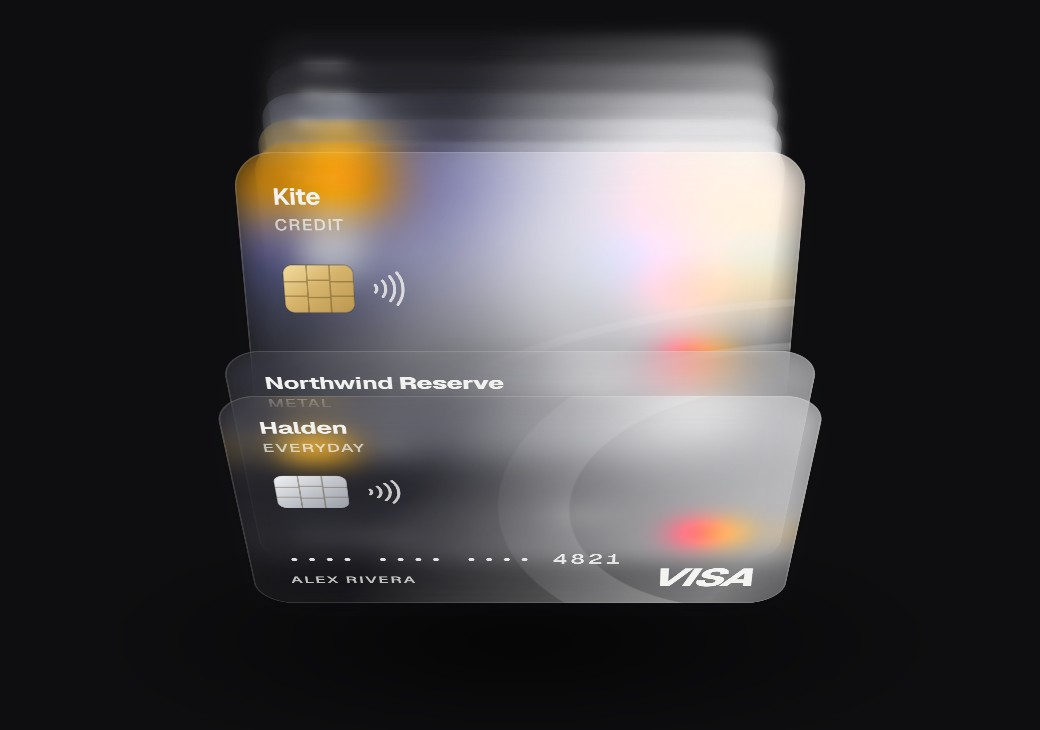
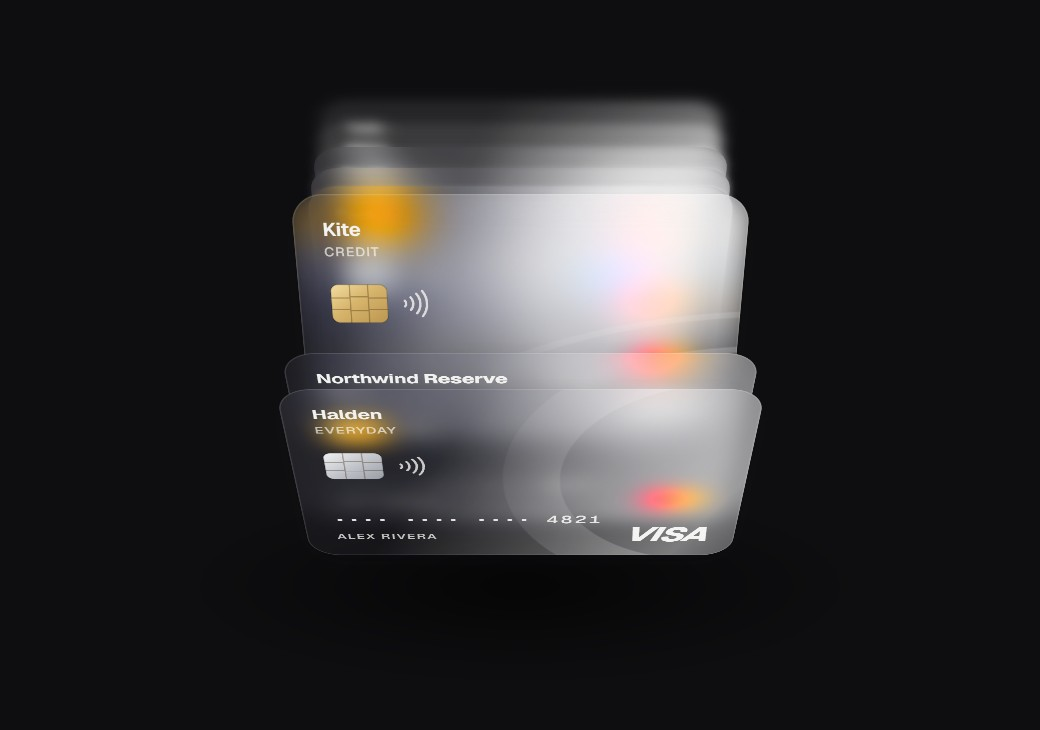
Lab: Card Roll a touch bigger on its page and always opens on Deck; 20% smaller on the board

Changed region(s): [[0.1846, 0.0301, 0.8, 0.8438], [0.5231, 0.6027, 0.5846, 0.6329]]

diff --git a/lab-board/index.html b/lab-board/index.html
@@ -556,7 +556,7 @@ const PIECES = [
   { slug:'code-input', fresh:true, preview:'pieces/code-input/?demo=1', title:'Code Input', what:'The one-time code from a text message, as when you sign up: two rounded boxes of three slots, a small asterisk waiting in each. Type it in as one (or paste it); with the last digit in, a beat of checking, then a wrong code shakes the row left and right, small and dying away, turns it red and clears it from the right until the caret is back in the first box. A right one turns it green. Light and dark; a panel tunes the shake and the beat.', year:'2026', kind:'interaction', live:'pieces/code-input/', code:'https://github.com/vod123qwe/playground/tree/main/lab-board/pieces/code-input', image:'thumbs/code-input.jpg?v=3', words:['one-time code', 'validation', 'shake', 'form'], rect:{x:520,y:1080,w:470,h:250} },
   { slug:'badge', fresh:true, preview:'pieces/badge/?demo=1', title:'Badge', what:'A badge on a lanyard, hanging from two straps spread wide above. Grab it and throw it: it swings and turns about its ring, the straps go slack and taut. Its graphic takes one of seven forms: a stripes generator (lines across the stripes swap their colours, so arrows, Vs, lenses and bowties come out of plain stripes), rays, threads, orbits, blobs, facets, an eye that follows you, or a wall of tiles you can re-deal one by one; the type one of three setups. A tap deals a new one; a panel tunes it all.', year:'2026', kind:'interaction', live:'pieces/badge/', code:'https://github.com/vod123qwe/playground/tree/main/lab-board/pieces/badge', image:'thumbs/badge.jpg?v=3', words:['lanyard', 'verlet', 'op art', 'generator'], rect:{x:1130,y:1180,w:330,h:470} },
   { slug:'cursors', locked:true, preview:'pieces/cursors/?demo=1', variants:4, title:'Cursors', what:'Four cursors over one page, each with a ground to work on: Pixel (a trail of pixels on a grid that shrink and fade, a burst on a click, blended by difference), Spotlight (the page under a veil, the cursor a soft light that opens it), Goo (blobs that melt into one another and invert what they cover) and Snap (a dot that becomes the outline of what you can press, and pulls it). Light or dark; a panel tunes the one on.', year:'2026', kind:'interaction', live:'pieces/cursors/', code:'https://github.com/vod123qwe/playground/tree/main/lab-board/pieces/cursors', image:'thumbs/cursors.jpg', words:['cursor', 'trail', 'hover', 'blend'], rect:{x:2150,y:120,w:400,h:300} },   // (later: back to it after the rest, 06.10.2026)
-  { slug:'card-roll', fresh:true, preview:'pieces/card-roll/?demo=1', title:'Card Roll', what:'A wallet of eight payment cards, each its own stock (slate, black metal, coral, contour green, pearl, aurora, sand, volt), solid or frosted glass. Four ways to turn through them: a picker barrel, a roll seen from above, a wallet column and a fan; the cards tip a little with the scroll and the one you stop on comes out. Click it and it comes out to the middle, following the pointer, the rest going soft behind it; click outside and it goes back.', year:'2026', kind:'interaction', live:'pieces/card-roll/', code:'https://github.com/vod123qwe/playground/tree/main/lab-board/pieces/card-roll', image:'thumbs/card-roll.jpg?v=15', words:['wallet', 'cards', 'scroll', '3d'], rect:{x:1590,y:780,w:470,h:330} },
+  { slug:'card-roll', fresh:true, preview:'pieces/card-roll/?demo=1', title:'Card Roll', what:'A wallet of eight payment cards, each its own stock (slate, black metal, coral, contour green, pearl, aurora, sand, volt), solid or frosted glass. Four ways to turn through them: a picker barrel, a roll seen from above, a wallet column and a fan; the cards tip a little with the scroll and the one you stop on comes out. Click it and it comes out to the middle, following the pointer, the rest going soft behind it; click outside and it goes back.', year:'2026', kind:'interaction', live:'pieces/card-roll/', code:'https://github.com/vod123qwe/playground/tree/main/lab-board/pieces/card-roll', image:'thumbs/card-roll.jpg?v=16', words:['wallet', 'cards', 'scroll', '3d'], rect:{x:1590,y:780,w:470,h:330} },
   { slug:'keyboard', fresh:true, preview:'pieces/keyboard/?demo=1', title:'Keyboard', what:'A flat low-profile keyboard drawn in the line style: low keys in an aluminium slab, every cap outlined, its legend printed on top. Click a key or type on your own keyboard and it goes down with a soft click (Soft, Thock or Crisp, made on the spot) and comes back up. Above the keys a control strip: a mute slide with its light, a volume knob that clicks in steps, a small screen (what you type and your speed, the stats, the time) and two round buttons; the keys light up where you type.', year:'2026', kind:'interaction', live:'pieces/keyboard/', code:'https://github.com/vod123qwe/playground/tree/main/lab-board/pieces/keyboard', image:'thumbs/keyboard.jpg?v=8', words:['keyboard', 'line art', 'sound', 'three.js'], rect:{x:2020,y:1350,w:450,h:240} },
   { empty:true, rect:{x:2560,y:1010,w:280,h:500} },
   { slug:'desk-lamp', locked:true, title:'Desk Lamp', what:'A desk lamp in the dark, one flat grey silhouette built in 3D: rigid arms, a bell shade, a hard white cone of light ending in a pool on the desk. Drag the shade sideways to turn the lamp all the way round, up or down to tip it; drag the base to move it.', year:'2026', kind:'interaction', live:'pieces/desk-lamp/', code:'https://github.com/vod123qwe/playground/tree/main/lab-board/pieces/desk-lamp', image:'thumbs/desk-lamp.jpg?v=4', words:['light', 'flat', '3D', 'turn'], rect:{x:700,y:480,w:420,h:315} },

diff --git a/lab-board/pieces/card-roll/index.html b/lab-board/pieces/card-roll/index.html
@@ -316,7 +316,7 @@ if (!DEMO) {
 }
 
 // ---------- the size: the roll fits the stage ----------
-function fit() { const r = stage.getBoundingClientRect(); K = BARE ? Math.min(r.width / 560, r.height / 470) : clamp(Math.min(r.width / (r.width < 600 ? 430 : 760), r.height / 640), .55, 1.35);
+function fit() { const r = stage.getBoundingClientRect(); K = BARE ? Math.min(r.width / 560, r.height / 470) * .8 : clamp(Math.min(r.width / (r.width < 600 ? 430 : 760), r.height / 640) * 1.15, .6, 1.55);
   const ks = K * P.size; if (Math.abs(ks - Ks) > 1e-4) { Ks = ks; U = Q * Ks; setUnit(); if (typeof lensMap === 'function') lensMap(); }
   floor.style.transform = `translateY(${((H * .55 + 60) * K * P.size).toFixed(1)}px) scale(${(K * P.size).toFixed(4)})`; wake(); }
 addEventListener('resize', fit); new ResizeObserver(fit).observe(stage);
@@ -372,6 +372,7 @@ buildPanel(); setMode(mode); applyGlass(); LabUI.segThumb($('mode'));
 const VARS = LabUI.variants($('vars'), { prev: $('prev'), next: $('next'), name: $('nm'), onStep: d => setAnim(ORDER[(ORDER.indexOf(P.anim) + d + ORDER.length) % ORDER.length]),
   items: () => ORDER.map(k => MODES[k].name), current: () => MODES[P.anim].name, onPick: n => setAnim(ORDER.find(k => MODES[k].name === n)) });
 $('nm').textContent = MODES[P.anim]?.name || 'Deck';
+if (!BARE && P.anim !== 'deck') setAnim('deck');   // (it always opens on Deck; the other motions are a step away)
 document.querySelectorAll('#mat button').forEach(b => b.onclick = () => setGlass(b.dataset.g === 'glass')); paintMat(); LabUI.segThumb($('mat'));
 
 // ---------- the board's box: ?thumb=1 the still (the third card risen), ?demo=1 the roll turning, stopping, one drawn out ----------

diff --git a/lab-board/pieces/card-roll/README.md b/lab-board/pieces/card-roll/README.md
@@ -63,3 +63,5 @@ Preset: ustaw i kliknij Copy settings, wynik (tylko zmiany względem domyślnych
 **Wydajność (telefon):** na ekranach 2-3× karty idą w 1× (Q), bo ekran i tak jest ostry; załamanie światła (#glassF) tylko na karcie na wierzchu; karta głęboko w rozmyciu nie liczy szronu tła; style pisane tylko przy zmianie (put/cls), rozmycie w krokach 0,25 px.
 
 **Telefon/tablet (pointer: coarse):** stały rzut — wyciągnięta karta nie podąża za palcem, karty nie przechylają się przy scrollu; zamiast rozmycia w głębi i rozmywania reszty jest przygaszanie (opacity), bez załamania światła. Wszystko po to, żeby szło płynnie.
+
+**Rozmiar:** na stronie talia jest ok. 15%% większa niż wypełnienie (i zawsze startuje z Deck); na planszy (miniatura i podgląd) o 20%% mniejsza.
